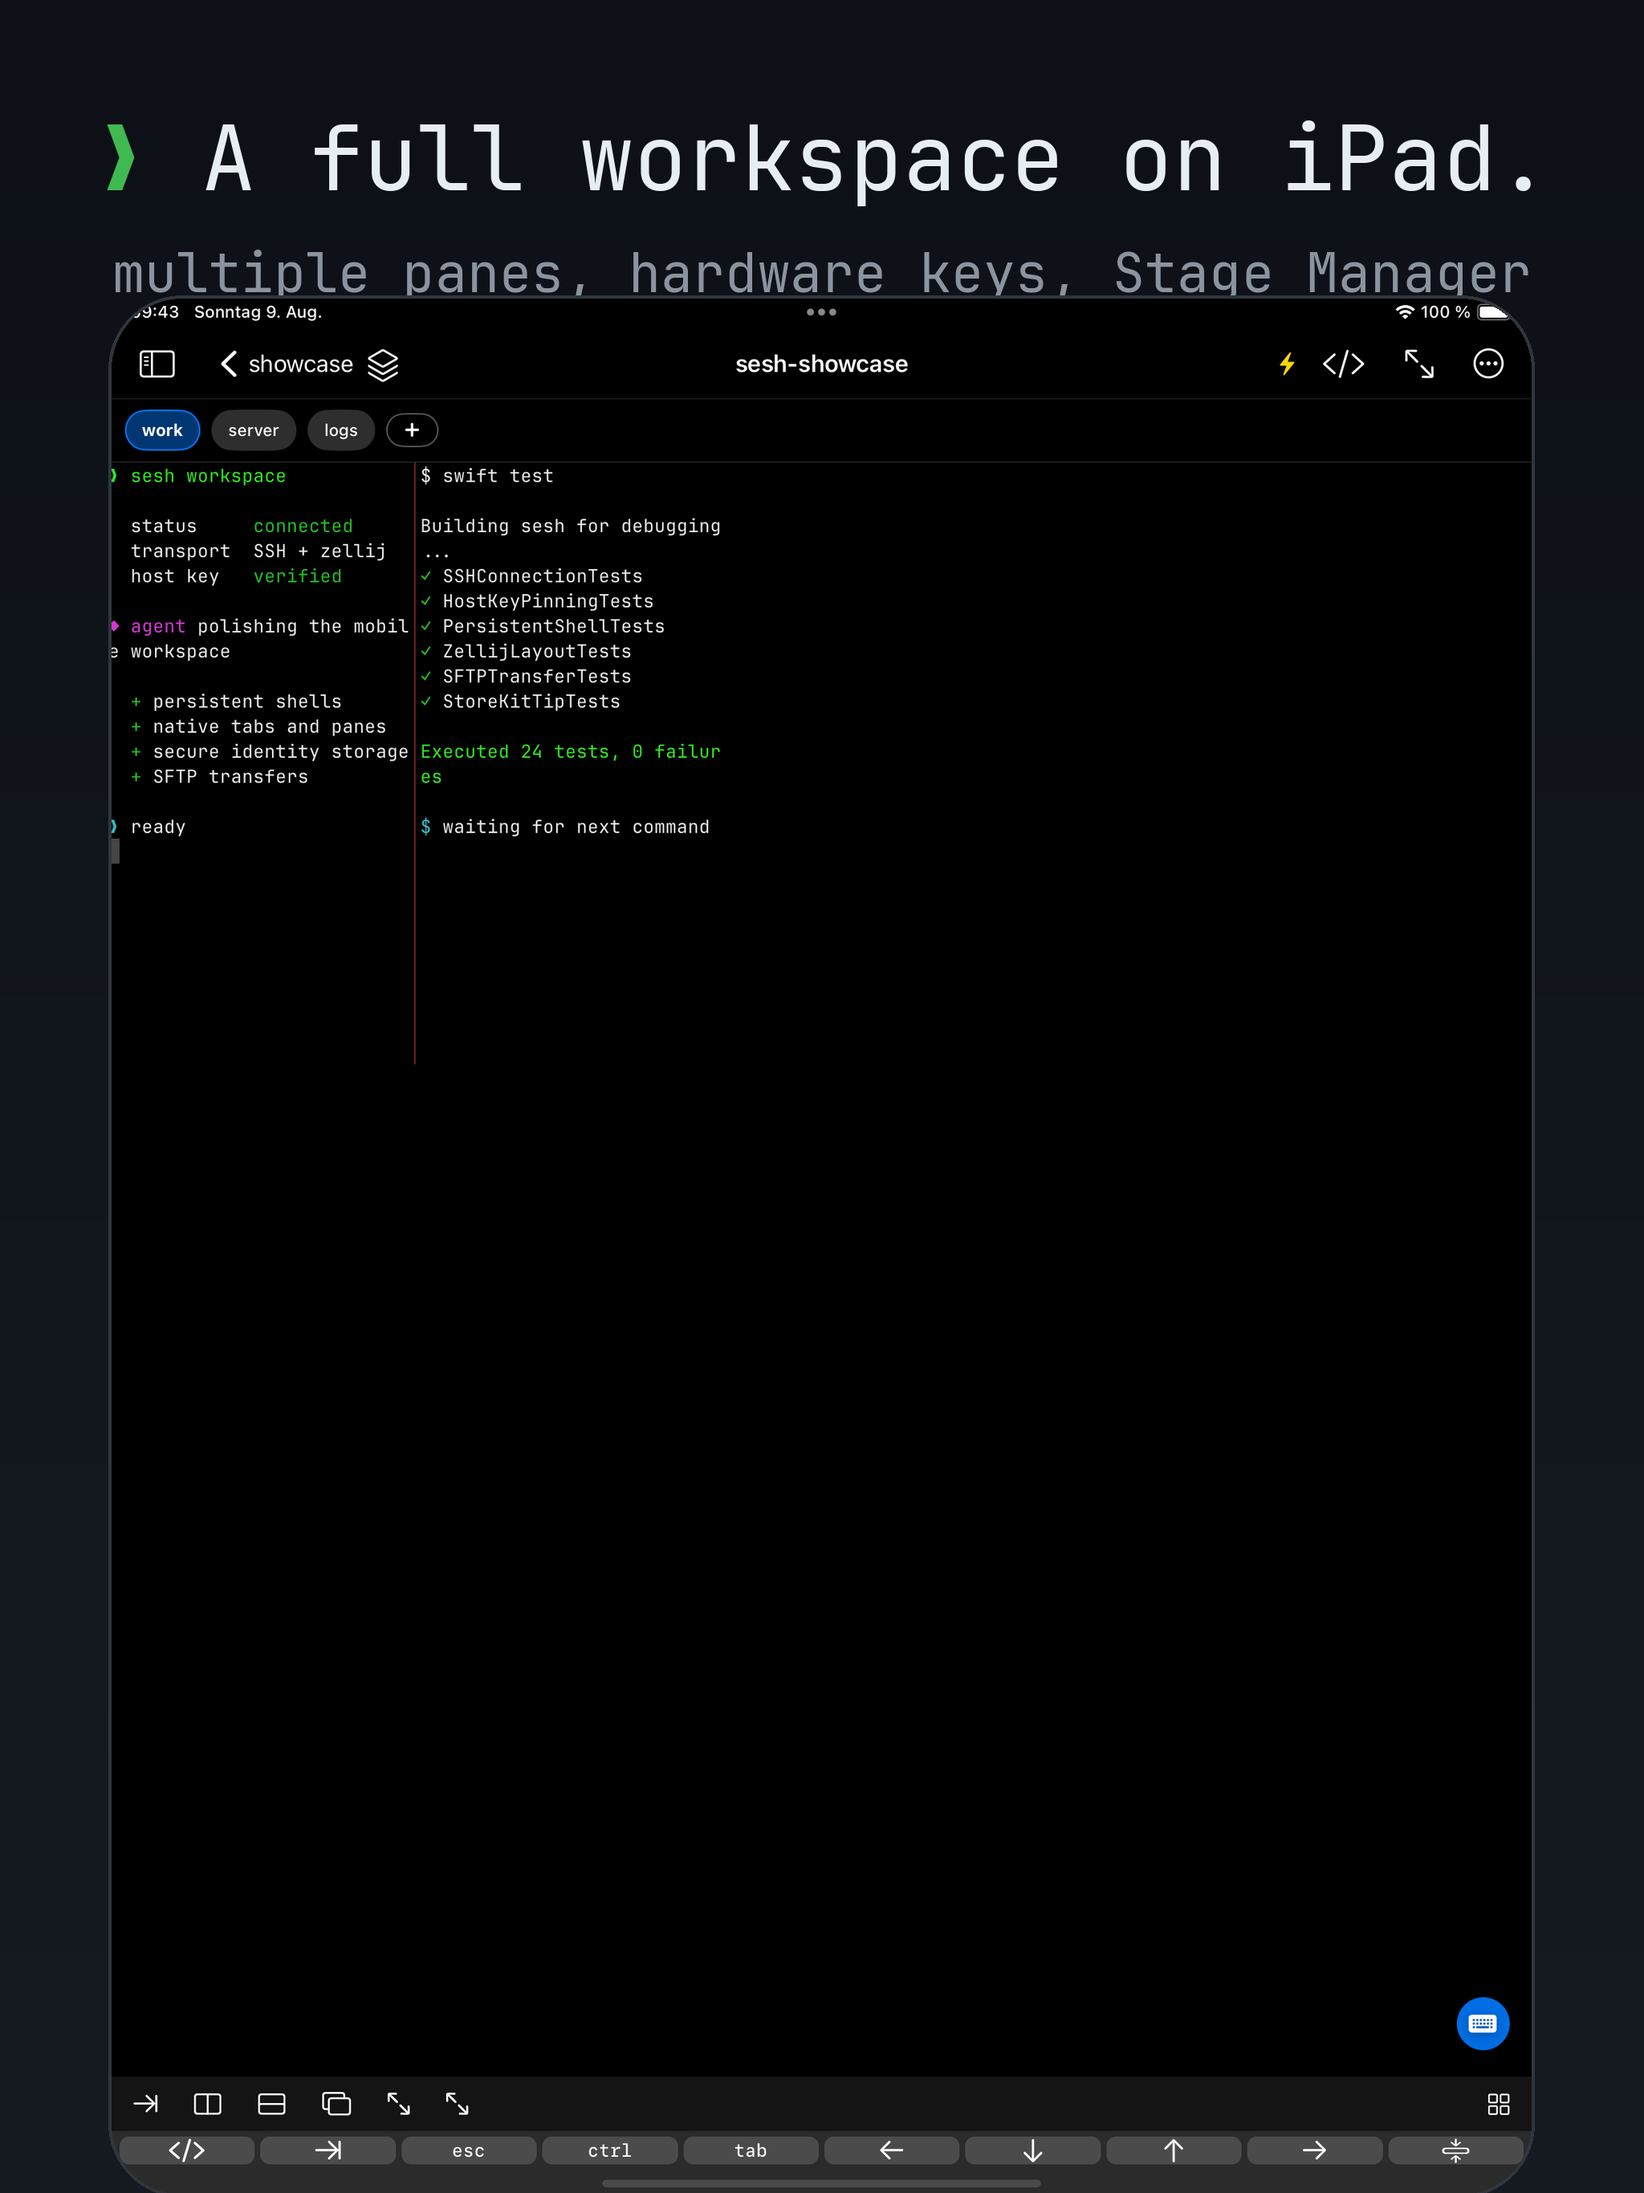
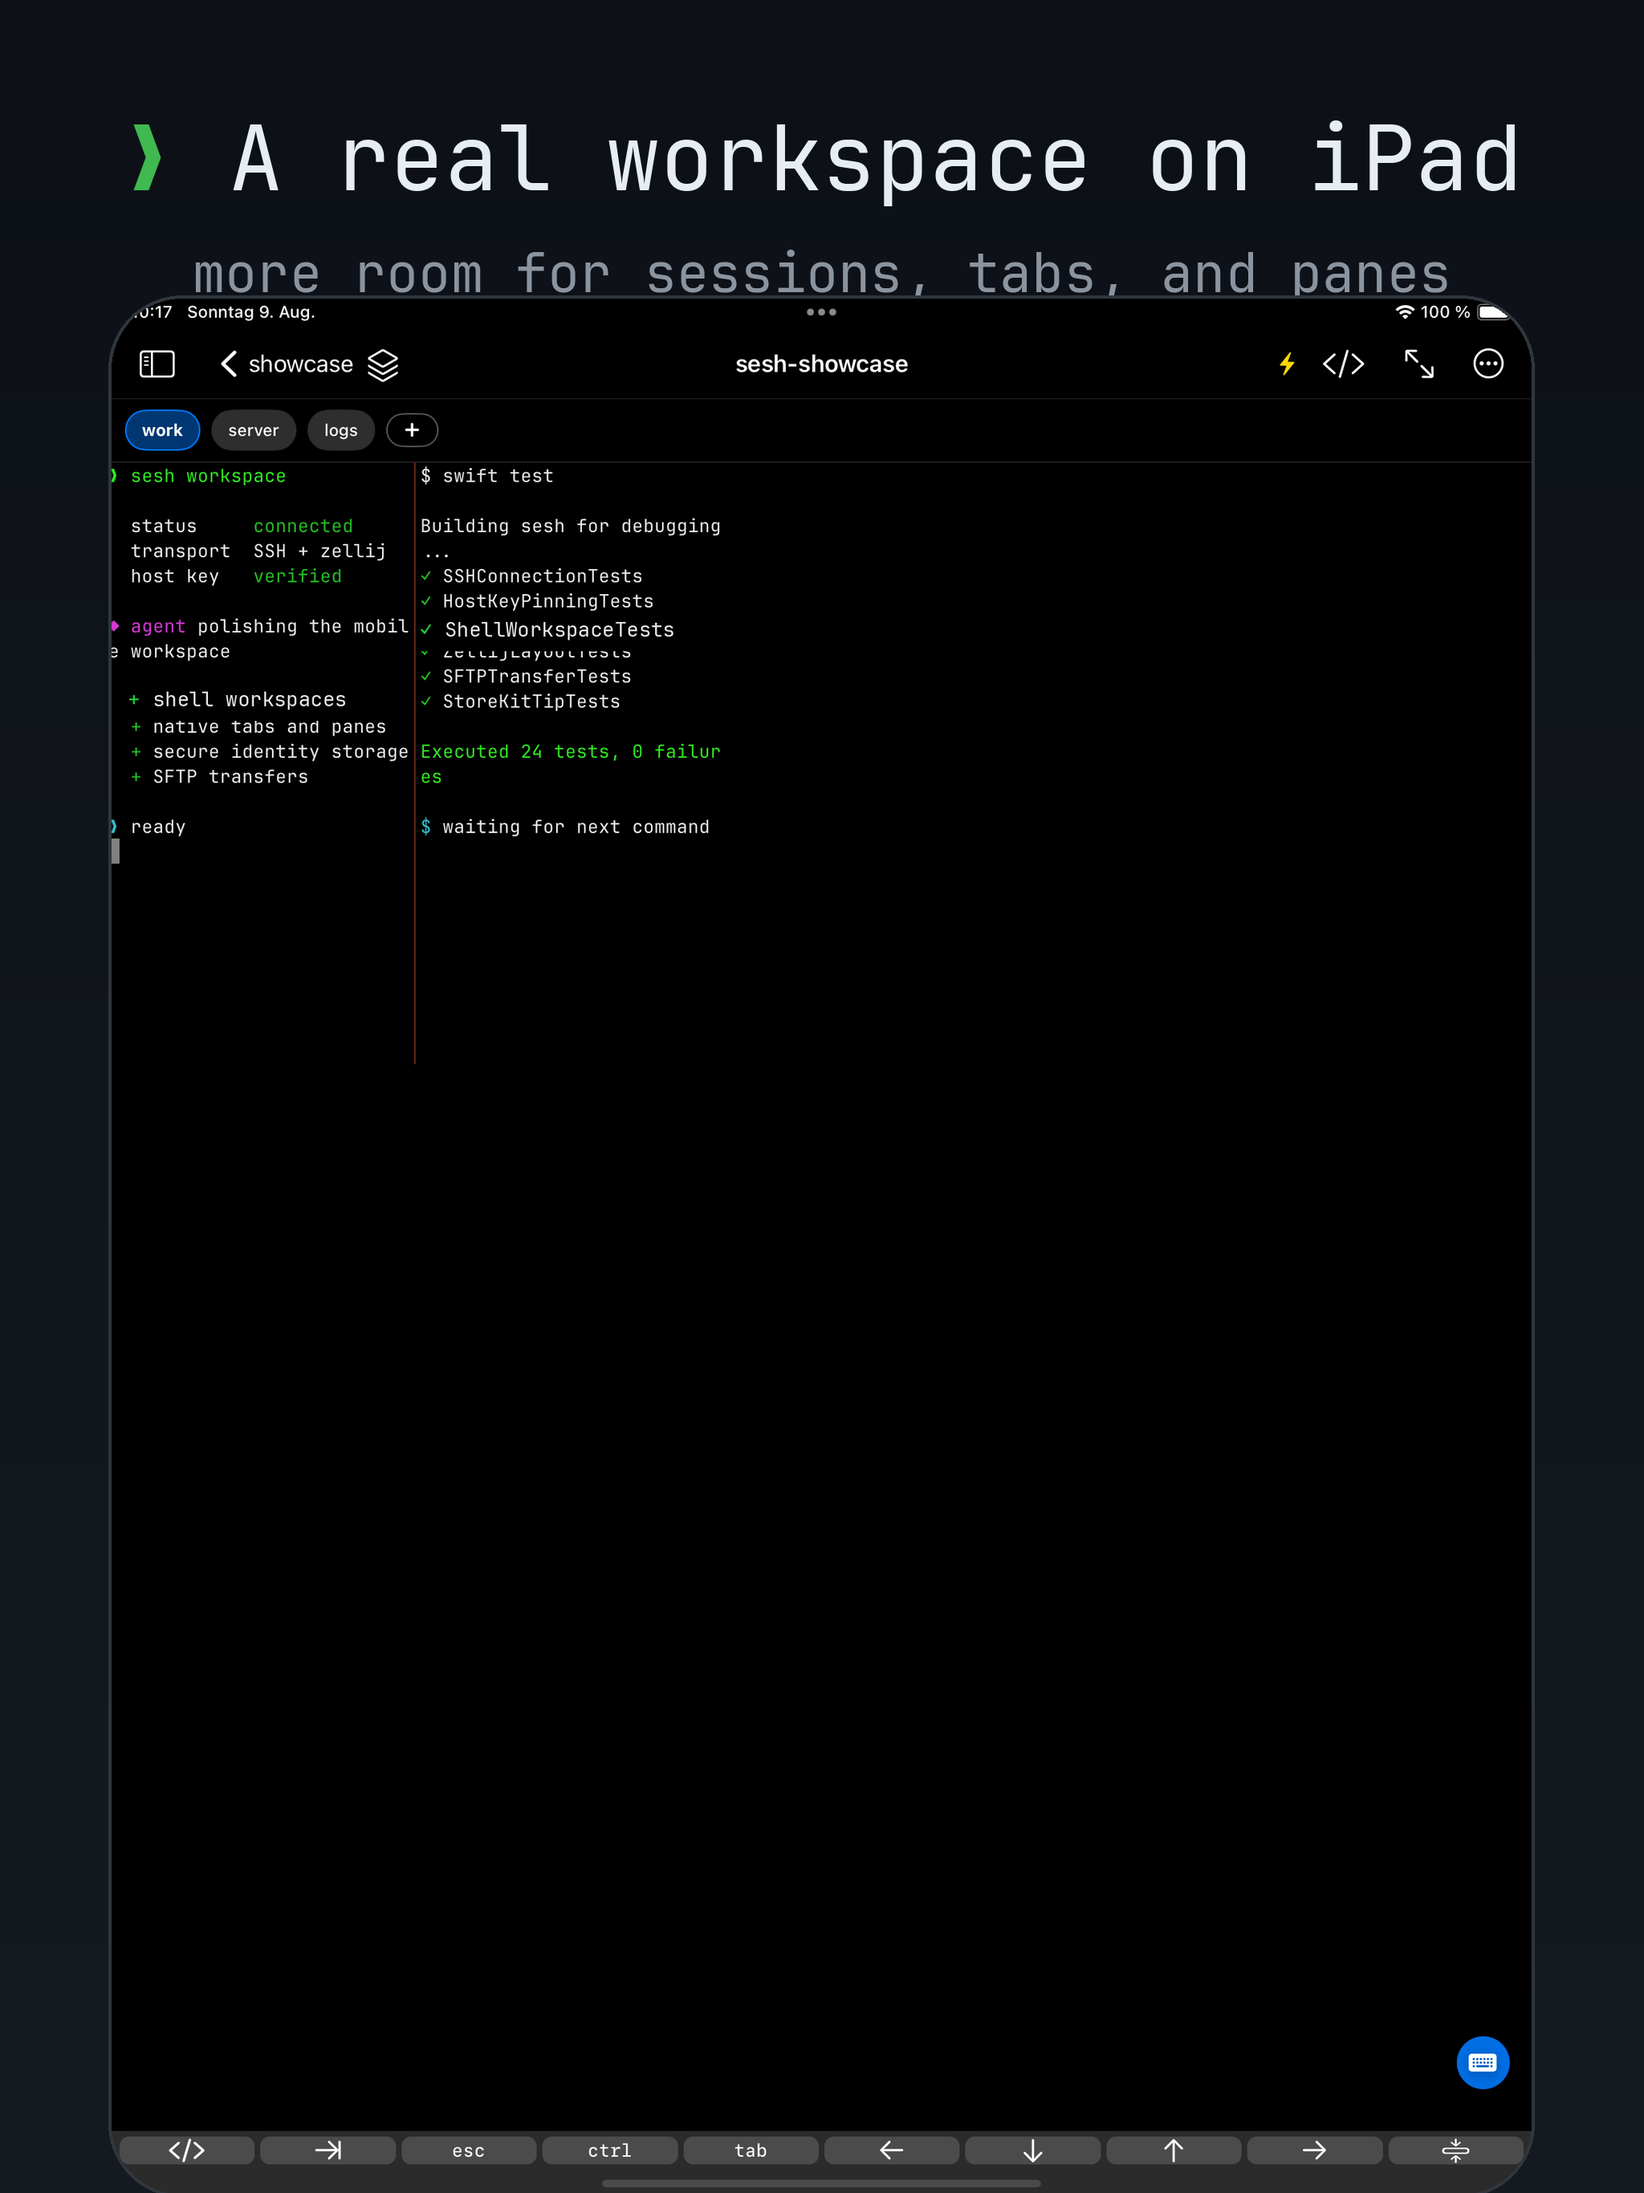
Refine sesh workspace messaging
Remove the unbounded persistence claim and describe connected shell
workspaces accurately. Update every product-page capture to match the
simplified terminal controls and current App Store screenshot set.

diff --git a/sesh/index.html b/sesh/index.html
@@ -4,7 +4,7 @@
   <meta charset="utf-8">
   <meta name="viewport" content="width=device-width, initial-scale=1">
   <meta name="theme-color" content="#0c1117">
-  <meta name="description" content="sesh is a native iPhone and iPad SSH client built around persistent zellij sessions, secure keys, SFTP, and mobile-first terminal controls.">
+  <meta name="description" content="sesh is a native iPhone and iPad SSH client built around zellij sessions, secure keys, SFTP, and mobile-first terminal controls.">
   <meta property="og:title" content="sesh - your terminal sessions, anywhere">
   <meta property="og:description" content="A native SSH and zellij workspace for iPhone and iPad.">
   <meta property="og:image" content="https://www.januschka.com/sesh/assets/icon.png">
@@ -194,7 +194,7 @@
         </div>
         <div class="features">
           <article class="feature"><div class="icon">[]</div><h3>zellij, natively</h3><p>Sessions, tabs, and panes become tappable UI with quick switching, rename, focus, split, and overview controls.</p></article>
-          <article class="feature"><div class="icon">&gt;_</div><h3>Persistent shells</h3><p>Move around the app without destroying your PTY. Reopen the same shell with its content and scrollback intact.</p></article>
+          <article class="feature"><div class="icon">&gt;_</div><h3>Shell workspaces</h3><p>Move around the app without destroying your PTY. Reopen the same connected shell with its content and scrollback intact.</p></article>
           <article class="feature"><div class="icon">^K</div><h3>Terminal keyboard</h3><p>Optional Esc, Ctrl, Tab, arrows, pane controls, saved commands, and history without wasting screen space.</p></article>
           <article class="feature"><div class="icon">S/</div><h3>Native SFTP</h3><p>Browse, upload, download, rename, create folders, and delete remote files with progress and cancellation.</p></article>
           <article class="feature"><div class="icon">key</div><h3>Secure identities</h3><p>Import or generate Ed25519 keys, protect them with Face ID or passcode, and keep credentials in Keychain.</p></article>
@@ -213,7 +213,7 @@
         <!-- These are controlled sesh demo captures. They contain no real credentials, addresses, usernames, keys, or private project data. -->
         <div class="gallery">
           <button class="shot" aria-label="Open terminal screenshot"><img loading="lazy" src="assets/terminal.png" alt="A controlled two-pane zellij workspace in sesh"></button>
-          <button class="shot" aria-label="Open persistent shell switcher screenshot"><img loading="lazy" src="assets/shells.png" alt="The persistent Open Shells switcher in sesh"></button>
+          <button class="shot" aria-label="Open shell switcher screenshot"><img loading="lazy" src="assets/shells.png" alt="The Open Shells switcher in sesh"></button>
           <button class="shot" aria-label="Open terminal themes screenshot"><img loading="lazy" src="assets/themes.png" alt="Live terminal themes and type sizing in sesh"></button>
           <button class="shot" aria-label="Open scrollback search screenshot"><img loading="lazy" src="assets/search.png" alt="Searching terminal scrollback in sesh"></button>
           <button class="shot" aria-label="Open compact terminal keys screenshot"><img loading="lazy" src="assets/keyboard.png" alt="Optional compact terminal keys in sesh"></button>
